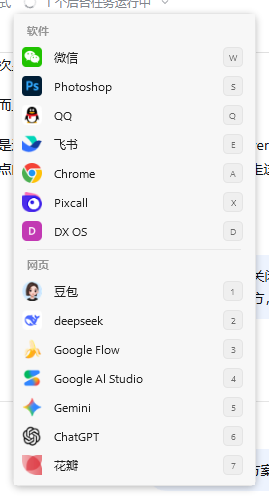
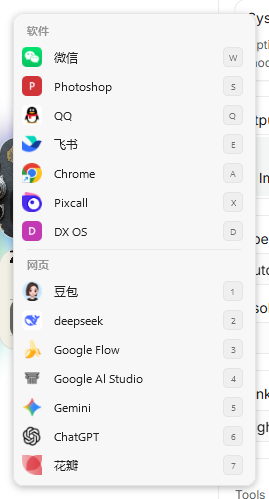
style: increase panel radius to 10px

diff --git a/src/PanelWindow.cs b/src/PanelWindow.cs
@@ -90,7 +90,7 @@ namespace SmartLauncher
 
             Border shadowBack = new Border();
             shadowBack.Margin = new Thickness(ShadowMargin);
-            shadowBack.CornerRadius = new CornerRadius(7);
+            shadowBack.CornerRadius = new CornerRadius(10);
             shadowBack.Background = Theme.PanelSolidBrush;
             shadowBack.IsHitTestVisible = false;
             DropShadowEffect panelShadow = new DropShadowEffect();
@@ -103,7 +103,7 @@ namespace SmartLauncher
             root.Children.Add(shadowBack);
             _panel = new Border();
             _panel.Margin = new Thickness(ShadowMargin);
-            _panel.CornerRadius = new CornerRadius(7);
+            _panel.CornerRadius = new CornerRadius(10);
             _panel.BorderThickness = new Thickness(1);
             _panel.BorderBrush = Theme.PanelBorderBrush;
             _panel.Background = Theme.PanelSolidBrush;
@@ -118,7 +118,7 @@ namespace SmartLauncher
             scroll.HorizontalScrollBarVisibility = ScrollBarVisibility.Disabled;
             scroll.Focusable = false;
             scroll.Padding = new Thickness(0);
-            scroll.Background = Theme.PanelSolidBrush;
+            scroll.Background = Brushes.Transparent;
             _content.Children.Add(scroll);
 
             _list = new StackPanel();
@@ -687,7 +687,7 @@ namespace SmartLauncher
             box.Background = Theme.MenuBgBrush;
             box.BorderBrush = Theme.PanelBorderBrush;
             box.BorderThickness = new Thickness(1);
-            box.CornerRadius = new CornerRadius(6);
+            box.CornerRadius = new CornerRadius(8);
             box.Padding = new Thickness(4);
             box.MinWidth = 140;
 

diff --git a/src/SettingsWindow.cs b/src/SettingsWindow.cs
@@ -73,7 +73,7 @@ namespace SmartLauncher
 
             Border root = new Border();
             root.Background = Theme.WindowSolidBrush;
-            root.CornerRadius = new CornerRadius(8);
+            root.CornerRadius = new CornerRadius(10);
             Content = root;
 
             Grid grid = new Grid();
@@ -416,7 +416,7 @@ namespace SmartLauncher
             box.Background = Theme.MenuBgBrush;
             box.BorderBrush = Theme.CardSolidBorder;
             box.BorderThickness = new Thickness(1);
-            box.CornerRadius = new CornerRadius(6);
+            box.CornerRadius = new CornerRadius(8);
             box.Padding = new Thickness(4);
             box.MinWidth = 170;
             box.Effect = Ui.Shadow();

diff --git a/README.md b/README.md
@@ -23,7 +23,7 @@ Quicker 动作保持原样即可（主路径现在已经存在）：
 - `↑` `↓` 选择，`Enter` 启动
 - `Esc` 或点击面板外关闭
 - 右键：设置 / 退出
-- 面板 243×473，窗口 269×499（13px 阴影边距）；layered WPF 合成、实心面 + 1px 边框 + DropShadow 阴影；不截屏模糊，不使用 DWM/WindowChrome
+- 面板 243×473，窗口 269×499（13px 阴影边距）；layered WPF 合成、实心面 + 1px 边框 + 10px 圆角 + DropShadow 阴影；不截屏模糊，不使用 DWM/WindowChrome
 - 鼠标移出不会自动关闭；左键点击面板外关闭（Deactivated）
 - 跟随系统深浅色；面板为实心磨砂面，不再截屏/模糊
 

diff --git a/CHANGELOG.md b/CHANGELOG.md
@@ -5,6 +5,7 @@
 - 面板壳退回 layered WPF 合成（实心面 + 阴影），修复 DWM 黑块/空白
 - 恢复左键外点关闭，鼠标移出不再自动关闭
 - 保留 v1.2 的设置页、测试、配置版本
+- 面板圆角 7→10px、菜单 6→8px，接近 Win11 应用圆角
 - 移除 overlay/auto-hide/WindowChrome/SetWindowRgn/Redraw 这一套
 
 ## 1.2 - 2026-10-19
